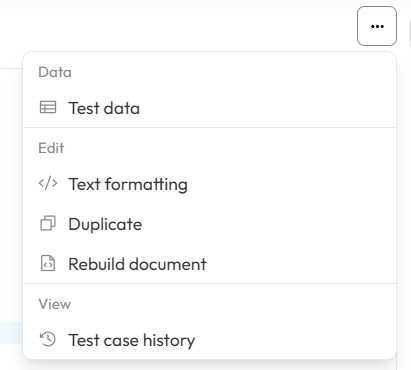
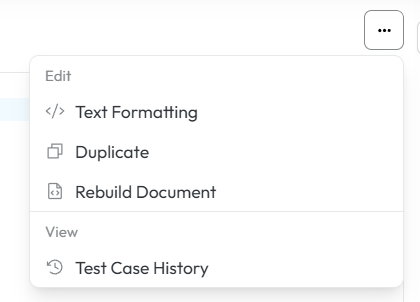
updated the test reposiotry page, and set the print version to the correct one

diff --git a/docs/test_case_repository.md b/docs/test_case_repository.md
@@ -11,12 +11,12 @@ The interface of AST is divided into two main sections:
 
 2. **central content area** with test content administration functionalities and user-specific options.
 
-3. **right-hand side panel** with test case details and metadata
+3. **right-hand side panel** with test case version information and details
 
 The interface provides hierarchical navigation for test scripts and a central content area for viewing and editing the XML-based test logic.
 
 ![ast_control_panel.png](assets/UserDocumentationM/ast_control_panel.png)
-<figcaption>Test Case Repository displaying the hierarchical tree of test cases and the XML editor pane with the metadata on the right</figcaption>
+<figcaption>Test Case Repository displaying the hierarchical tree of test cases and the XML editor pane with the version information on the right</figcaption>
 
 !!! info
     Both the left hand navigation panel and the right hand side panel are collapsible, allowing users to maximize the central content area when needed for a more focused view on test case details and editing.
@@ -31,16 +31,37 @@ Each folder within the tree is labeled with a descriptive name(of the users choo
 User can create modify or delete folders, test cases or methods.
 To work with test cases or folders click on the three dots. Then you see **[context menu](#create-edit-and-manage-test-cases)** with all the functionalities.
 
-### Metadata and details
+### Version information and details panel
 
 When a test case is opened , the main content area of the control panel populates with its details and controls.
-In the right panel you can see its details. You can also see the last run status of this testcase. In this metadata section you can also modify the name of the test case and its description.
+In the right panel you can see its version information like creation date, who created this version and the version number. 
+When the newest available version is shown, the version is labeled as 'latest' and the version number is not shown.
+
+You can also see the last run status of this testcase. 
+
+In this section you can also modify the name of the test case and its description.
+
 When Xray or ALM integration is set up, you can also see the linked external IDs and you can also bulk upload or download these IDs.
 
 ![testcasemetadata.png](assets/UserDocumentationM/testcasemetadata.png)
-<figcaption>Detailed view of a selected test case information containing key metadata, external IDs and the last run.</figcaption>
+<figcaption>Detailed view of a selected test case information, external IDs, the last run and the button where you can upload test data.</figcaption>
 
 The last run status if clickable and opens a dialog where you can download the execution report.
+
+#### Test case data
+The test data can be also uploaded in this section. You can also download the data file that is currently in use or remove it.
+
+![test-data-not-present.png](assets/UserDocumentationM/test-data-not-present.png)
+<figcaption>View of the right panel when no test data are attached to testcase</figcaption>
+
+!!! warning
+    Uploading new excel file removes old one. There can be only 1 data file in usage!
+
+![testdata-present.png](assets/UserDocumentationM/testdata-present.png)
+<figcaption>View of the right panel when test data are attached to testcase. You can replace, remove or download the test data file</figcaption>
+
+To understand more the test data topic please read this chapter: **[Test script and test data design](test_script_and_test_data.md)**.
+
 
 
 ### Execution Reporting
@@ -85,24 +106,6 @@ This multi-pane layout ensures that the user has a complete overview of the test
 
 Test case editor offers another set of useful functionalities that help you with code checking, version comparison and data upload. These are accessible in upper right part of editor by click on the three dots button.
 ![addition feat.png](assets/ControlPanelDocu/additional-feat.png)
-
-#### Test case data
-
-After clicking 'test data' button you can:
-
-1. Upload new excel file with data
-
-2. Download data file that is currently in use
-
-3. Remove the data file
-
-![testdata.png](assets/ControlPanelDocu/testdata.png)
-<figcaption>Test case data modal</figcaption>
-
-!!! warning
-    Uploading new excel file removes old one. There can be only 1 data file in usage!
-
-To understand more the test data topic please read this chapter: **[Test script and test data design](test_script_and_test_data.md)**.
 
 #### Text formatting
 Text formatting helps you to checks how the document would look after formatting rules are applied, without permanently changing it. It helps you preview spacing, indentation, and layout issues to confirm the formatting is correct before saving or publishing.
